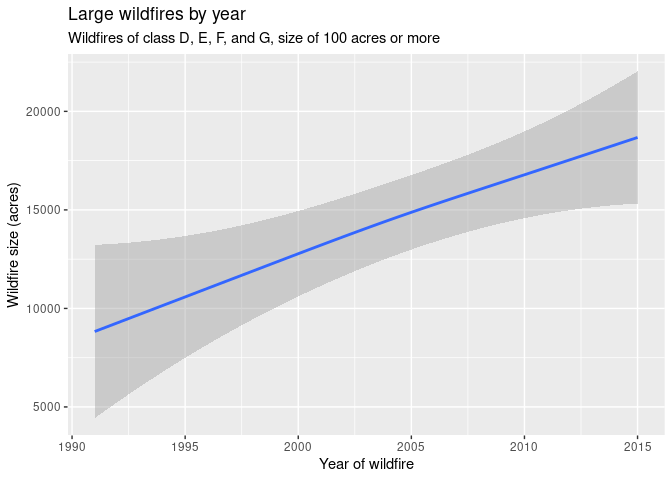
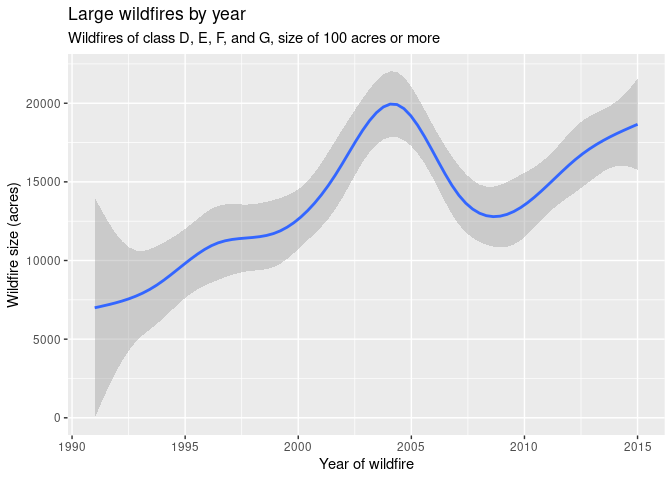
Finish wildfire leaflet map

diff --git a/proposal/proposal.md b/proposal/proposal.md
@@ -170,6 +170,11 @@ US_pop$"2016 Population" <- NULL # remove the column
 
 ## 2. Data
 
+See README.md for more info. Some of our data sources include: 1. Csv
+file from kaggle with global temp by city 2. Csv file from kaggle with
+wildfire info 3. CSV file from kaggle on US disaster declarations
+(includes info on floods and hurricanes)
+
 1.  US Temperature -
     [Source](https://www.kaggle.com/berkeleyearth/climate-change-earth-surface-temperature-data)
 2.  US Disasters -
@@ -185,11 +190,11 @@ US_pop$"2016 Population" <- NULL # remove the column
 
 The first analysis we will do is to visualize how global temperatures
 can be used as a predictor for the number of wildfires in a given year
-within a specific area.
-
-The first analysis we will do is to visualize how global temperatures
-can be used as a predictor for the number of wildfires in a given year
-within a specific area.
+within a specific area. Continuing off this theme, we will also analyze
+how global sea levels rise with rising global temperature as well. To
+give emphasis on why this is a problem, we will also include population
+data to see how much impact sea level rise and natural disasters have on
+a city.
 
 ### STATISTICAL METHODS
 
@@ -208,7 +213,7 @@ probability.
 
 ``` r
 wildfires <- wildfires %>%
-  mutate(wf_rad_mi = sqrt(fire_size/pi))
+  mutate(wf_rad_mi = sqrt((fire_size * 4046.86) / pi))
 ggplot(data = wildfires,
        mapping = aes(x = disc_pre_year)) + 
   #geom_histogram(binwidth = 1) + 
@@ -257,13 +262,7 @@ disaster_data %>%
 
 ``` r
 lg_wildfires <- wildfires %>%
-  filter(fire_size_class == c("D", "E", "F", "G"))
-```
-
-    ## Warning in fire_size_class == c("D", "E", "F", "G"): longer object length is not
-    ## a multiple of shorter object length
-
-``` r
+  filter(fire_size_class %in% c("D", "E", "F", "G"))
 lg_wildfires %>%
   ggplot(mapping = aes(x = disc_pre_year, 
                        y = fire_size)) + 
@@ -275,6 +274,8 @@ lg_wildfires %>%
 ```
 
     ## `geom_smooth()` using method = 'gam' and formula 'y ~ s(x, bs = "cs")'
+
+    ## Warning: Removed 2 rows containing non-finite values (stat_smooth).
 
 ![](proposal_files/figure-gfm/large-wildfires-1.png)<!-- -->
 
@@ -380,7 +381,7 @@ lg_wildfires %>%
              label = ~lg_wildfires$stat_cause_descr, 
              radius = ~lg_wildfires$wf_rad_mi,
              color = wf_pal(lg_wildfires$fire_size_class),
-             stroke = FALSE, fillOpacity = 0.5,
+             stroke = FALSE, fillOpacity = 0.7,
              #clusterOptions = markerClusterOptions()
              )
 ```
